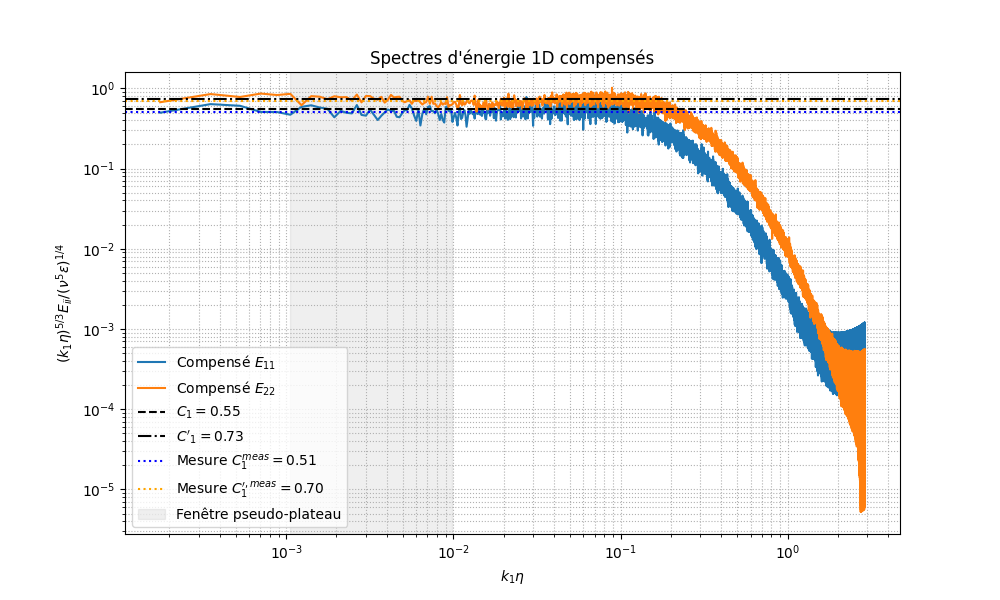
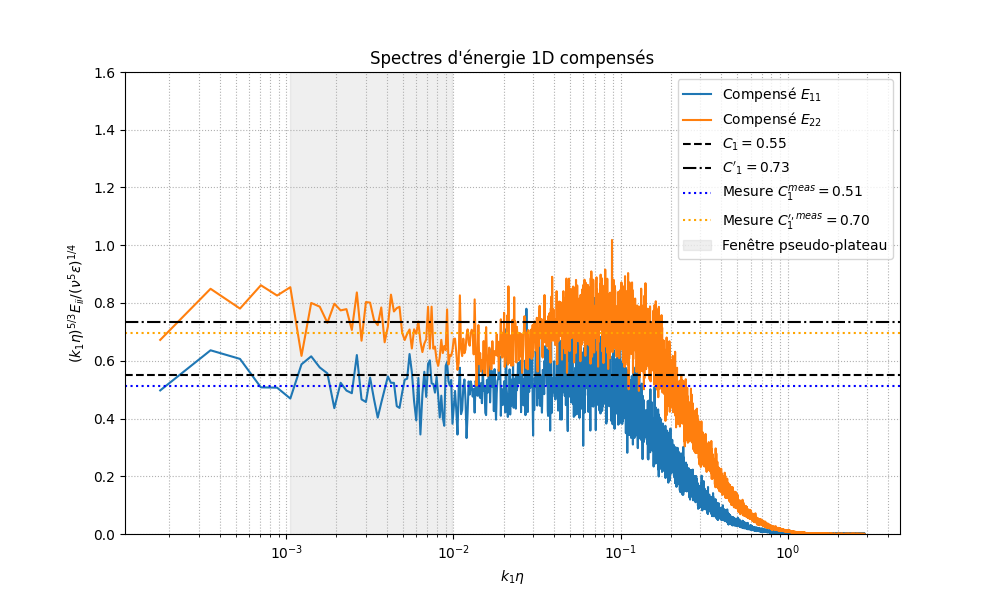
ajust scale loglog & np.save

diff --git a/srcipts/HIT6.0.py b/srcipts/HIT6.0.py
@@ -56,28 +56,15 @@ def calculate_global_quantities(pencils):
     
     # listes pour stocker k et epsilon de chaque pencil
     k_from_each_pencil = []
-    K_bis = []
     epsilon_from_each_pencil = []
 
-    u_from_each_pencil = np.zeros((TOTAL_PENCILS, N_POINTS))  
-    v_from_each_pencil = np.zeros((TOTAL_PENCILS, N_POINTS))
-    w_from_each_pencil = np.zeros((TOTAL_PENCILS, N_POINTS))
-    dudx_from_each_pencil = np.zeros((TOTAL_PENCILS, N_POINTS))
-
-
-    for j, direction in enumerate(DIRECTIONS):
+    for direction in DIRECTIONS:
         for i in range(N_FILES_PER_DIR):
             u, v, w = pencils[direction][i, :, 0], pencils[direction][i, :, 1], pencils[direction][i, :, 2] # compo de vitesse
             
             # --- Calcul de TKE pour ce pencil ---
             # Les champs fournis sont déjà les fluctuations : pas de soustraction de la moyenne
-            u_from_each_pencil[j * N_FILES_PER_DIR + i, :] = u  
-            v_from_each_pencil[j * N_FILES_PER_DIR + i, :] = v
-            w_from_each_pencil[j * N_FILES_PER_DIR + i, :] = w
-
-
             k_pencil = 0.5 * (np.mean(u**2) + np.mean(v**2) + np.mean(w**2))
-            K_bis.append(3/2 * np.mean(u**2))  # vérification alternative
             k_from_each_pencil.append(k_pencil)
             
             # --- Calcul de la dissipation pour ce pencil ---
@@ -88,26 +75,14 @@ def calculate_global_quantities(pencils):
             
             # Dérivée avec schéma d'ordre 4 
             du_dx = fourth_order_derivative(longitudinal_fluc, dx)
-            dudx_from_each_pencil[j * N_FILES_PER_DIR + i, :] = du_dx
         
             epsilon_pencil = 15 * NU * np.mean(du_dx**2)
             epsilon_from_each_pencil.append(epsilon_pencil)
 
 
     # --- Moyenne sur tous les pencils ---
-    print(u_from_each_pencil.shape)
-    print(u_from_each_pencil)
-
-
-
-    u_squared_mean = (u_from_each_pencil**2).mean()
-    v_squared_mean = (v_from_each_pencil**2).mean()
-    w_squared_mean = (w_from_each_pencil**2).mean()
-
-    du_dx_squared_mean = (dudx_from_each_pencil**2).mean()
-
-    k_mean = 0.5 * (u_squared_mean + v_squared_mean + w_squared_mean)
-    epsilon_mean = 15 * NU * du_dx_squared_mean
+    k_mean = np.mean(k_from_each_pencil)
+    epsilon_mean = np.mean(epsilon_from_each_pencil)
 
 
     # --- Quantités dérivées ---
@@ -204,85 +179,68 @@ def calculate_structure_functions(pencils, globals):
 
 # --- 5. Spectres d'énergie 1D ---
 
-def energy_spectra_one_pencil(k, u):
-    """Retourne E(k) 1D pour un signal fluctuant u(x)."""
-    N = N_POINTS
-    dx = L_DOMAIN / N
-
-    # FFT unilatérale
-    U = np.fft.rfft(u)
-
-    # PSD brute suivant convention numpy/Parseval
-    S = (dx / N) * (np.abs(U)**2)
-
-    # Doublement des bins non-DC/non-Nyquist
-    if len(S) > 2:
-        S[1:-1] *= 2
-
-    # E11 ou E22 (par composante)
-    return 0.5 * S   # 0.5* S <=> integrale ≈ 0.5 <u'^2>
-    
-
 def calculate_energy_spectra(pencils, globals):
-    print("\n--- Tâche 3 : Calcul des spectres d'énergie (corrigé) ---")
+    """Calcule les spectres d'énergie 1D E11 et E22.
+
+    Intuition :
+    ----------------
+    On veut voir comment l'énergie cinétique est distribuée selon les différentes
+    échelles (ou longueurs d'onde) dans la turbulence.
+    - E11(k) : énergie de la composante **longitudinale** à l'échelle associée à k
+    - E22(k) : énergie des composantes **transverses**
+    
+    Pour chaque pencil :
+        1. On prend les fluctuations de vitesse (u', v', w')
+        2. On fait la FFT pour passer du domaine spatial au domaine fréquentiel
+        3. On calcule la densité spectrale de puissance |u_hat|^2 etc.
+    Enfin, on moyenne sur tous les pencils pour obtenir un spectre global.
+    
+    Cela permet de repérer :
+        - à grande échelle (petit k) : où l'énergie est injectée
+        - à petite échelle (grand k) : où l'énergie est dissipée par la viscosité
+    """
+    
+    print("\n--- Tâche 3 : Calcul des spectres d'énergie ---")
     
     dx = L_DOMAIN / N_POINTS
+    
+    # Préparation des nombres d'onde (k)
+    k = fftfreq(N_POINTS, d=dx) * 2 * np.pi     # vecteur des nombres d'onde en [rad/m]
+    k_pos = k[1:N_POINTS // 2]                  # on garde que les k positifs (exclut k=0)
 
-    # BON vecteur d’onde : rfft + rfftfreq
-    k = 2*np.pi * np.fft.rfftfreq(N_POINTS, d=dx)
-    k_pos = k[1:]     # on enlève juste k=0
-    nk = len(k_pos)
-
-    E11_acc = np.zeros(nk)
-    E22_acc = np.zeros(nk)
+    # Accumulateurs pour les spectres
+    E11_accumulator = np.zeros_like(k_pos)
+    E22_accumulator = np.zeros_like(k_pos)
 
     for direction in DIRECTIONS:
-        if direction == 'x': long_idx, t1, t2 = 0, 1, 2
-        if direction == 'y': long_idx, t1, t2 = 1, 0, 2
-        if direction == 'z': long_idx, t1, t2 = 2, 1, 0
+        if direction == 'x': long_idx, trans_idx1, trans_idx2 = 0, 1, 2
+        if direction == 'y': long_idx, trans_idx1, trans_idx2 = 1, 0, 2
+        if direction == 'z': long_idx, trans_idx1, trans_idx2 = 2, 1, 0
 
         for i in range(N_FILES_PER_DIR):
+            # Les champs fournis sont déjà les fluctuations : pas de soustraction de la moyenne
+            u_fluc = pencils[direction][i, :, long_idx]
+            v_fluc = pencils[direction][i, :, trans_idx1]
+            w_fluc = pencils[direction][i, :, trans_idx2]
 
-            u = pencils[direction][i, :, long_idx]
-            v = pencils[direction][i, :, t1]
-            w = pencils[direction][i, :, t2]
+            # Transformée de fourier (FFT) 
+            u_hat = fft(u_fluc)[1:N_POINTS // 2]
+            v_hat = fft(v_fluc)[1:N_POINTS // 2]
+            w_hat = fft(w_fluc)[1:N_POINTS // 2]
+            
+            # Calcul du spectre de puissance (PSD)
+            E11_pencil = (L_DOMAIN / (np.pi * N_POINTS**2)) * np.abs(u_hat)**2
+            E22_pencil = (L_DOMAIN / (np.pi * N_POINTS**2)) * (np.abs(v_hat)**2 + np.abs(w_hat)**2)
+            
+            E11_accumulator += E11_pencil
+            E22_accumulator += E22_pencil
+            
+    # Moyenne finale sur les 48 pencils
+    E11_avg = E11_accumulator / TOTAL_PENCILS
+    E22_avg = E22_accumulator / (TOTAL_PENCILS * 2)
 
-            # Retirer la moyenne spatiale de CHAQUE composante (indispensable !)
-            u = u - np.mean(u)
-            v = v - np.mean(v)
-            w = w - np.mean(w)
-
-            # FFT unilatérale correcte
-            U = np.fft.rfft(u)
-            V = np.fft.rfft(v)
-            W = np.fft.rfft(w)
-
-            # PSD unilatéral correct : Parseval + doublement
-            S_u = (dx / N_POINTS) * np.abs(U)**2
-            S_v = (dx / N_POINTS) * np.abs(V)**2
-            S_w = (dx / N_POINTS) * np.abs(W)**2
-
-            # Correction one-sided (sauf k=0 et k=Nyquist)
-            S_u[1:-1] *= 2
-            S_v[1:-1] *= 2
-            S_w[1:-1] *= 2
-
-            # Énergie longitudinale et transverse
-            E11 = 0.5 * S_u[1:]
-            E22 = 0.5 * (S_v[1:] + S_w[1:]) * 0.5   # moyenne des 2 transverses
-
-            E11_acc += E11
-            E22_acc += E22
-
-    # moyenne sur les 48 pencils
-    E11_avg = E11_acc / TOTAL_PENCILS
-    E22_avg = E22_acc / TOTAL_PENCILS
 
     return k_pos, E11_avg, E22_avg
-
-
-
-
 
 
 # --- 6. Fonctions d'autocorrélation (BONUS) ---
@@ -400,28 +358,47 @@ if __name__ == "__main__":
     pencils['x'] = np.load(DATA_PATH + '/saved_data/pencils_x.npy')
     pencils['y'] = np.load(DATA_PATH + '/saved_data/pencils_y.npy')
     pencils['z'] = np.load(DATA_PATH + '/saved_data/pencils_z.npy')
-    print()
     print("--------------------------------")
     print("Saved pencils data loaded")
     print("--------------------------------")
-    print()
 
     globals_dict = calculate_global_quantities(pencils)
     
     # Tâche 2
+    r_vals, D11, D22 = None, None, None
     r_vals, D11, D22 = calculate_structure_functions(pencils, globals_dict)
+    np.save(DATA_PATH + '/saved_data/r_values_sf.npy', r_vals)
+    np.save(DATA_PATH + '/saved_data/D11_sf.npy', D11)
+    np.save(DATA_PATH + '/saved_data/D22_sf.npy', D22)
+    np.load(DATA_PATH + '/saved_data/r_values_sf.npy')
+    np.load(DATA_PATH + '/saved_data/D11_sf.npy')
+    np.load(DATA_PATH + '/saved_data/D22_sf.npy')
     plot_sf_loglog(r_vals, D11, D22, globals_dict['eta'], RESULTS_PATH)                         # Log-Log
     plot_sf_comp(r_vals, D11, D22, globals_dict['eps'], globals_dict['eta'], RESULTS_PATH)      # Compensé 
     
     #raise SystemExit
 
     # Tâche 3
+    k_vals, E11, E22 = None, None, None
     k_vals, E11, E22 = calculate_energy_spectra(pencils, globals_dict)
+    np.save(DATA_PATH + '/saved_data/k_values_spectra.npy', k_vals)
+    np.save(DATA_PATH + '/saved_data/E11_spectra.npy', E11)
+    np.save(DATA_PATH + '/saved_data/E22_spectra.npy', E22)
+    np.load(DATA_PATH + '/saved_data/k_values_spectra.npy')
+    np.load(DATA_PATH + '/saved_data/E11_spectra.npy')
+    np.load(DATA_PATH + '/saved_data/E22_spectra.npy')
     plot_spectra_loglog(k_vals, E11, E22, globals_dict, RESULTS_PATH)
     plot_spectra_comp(k_vals, E11, E22, globals_dict, RESULTS_PATH)
     
     # Tâche BONUS
+    r_vals_corr, f_r, g_r = None, None, None
     r_vals_corr, f_r, g_r = calculate_autocorrelation_functions(pencils, globals_dict)
+    np.save(DATA_PATH + '/saved_data/r_values_corr.npy', r_vals_corr)
+    np.save(DATA_PATH + '/saved_data/f_r.npy', f_r)
+    np.save(DATA_PATH + '/saved_data/g_r.npy', g_r)
+    np.load(DATA_PATH + '/saved_data/r_values_corr.npy')
+    np.load(DATA_PATH + '/saved_data/f_r.npy')
+    np.load(DATA_PATH + '/saved_data/g_r.npy')
     plot_autocorrelation(r_vals_corr, f_r, g_r, globals_dict['eta'], RESULTS_PATH)
 
     print("\nAnalyse complète terminée")

diff --git a/srcipts/HIT5.0.py b/srcipts/HIT5.0.py
@@ -365,19 +365,40 @@ if __name__ == "__main__":
     globals_dict = calculate_global_quantities(pencils)
     
     # Tâche 2
+    r_vals, D11, D22 = None, None, None
     r_vals, D11, D22 = calculate_structure_functions(pencils, globals_dict)
+    np.save(DATA_PATH + '/saved_data/r_values_sf.npy', r_vals)
+    np.save(DATA_PATH + '/saved_data/D11_sf.npy', D11)
+    np.save(DATA_PATH + '/saved_data/D22_sf.npy', D22)
+    np.load(DATA_PATH + '/saved_data/r_values_sf.npy')
+    np.load(DATA_PATH + '/saved_data/D11_sf.npy')
+    np.load(DATA_PATH + '/saved_data/D22_sf.npy')
     plot_sf_loglog(r_vals, D11, D22, globals_dict['eta'], RESULTS_PATH)                         # Log-Log
     plot_sf_comp(r_vals, D11, D22, globals_dict['eps'], globals_dict['eta'], RESULTS_PATH)      # Compensé 
     
     #raise SystemExit
 
     # Tâche 3
+    k_vals, E11, E22 = None, None, None
     k_vals, E11, E22 = calculate_energy_spectra(pencils, globals_dict)
+    np.save(DATA_PATH + '/saved_data/k_values_spectra.npy', k_vals)
+    np.save(DATA_PATH + '/saved_data/E11_spectra.npy', E11)
+    np.save(DATA_PATH + '/saved_data/E22_spectra.npy', E22)
+    np.load(DATA_PATH + '/saved_data/k_values_spectra.npy')
+    np.load(DATA_PATH + '/saved_data/E11_spectra.npy')
+    np.load(DATA_PATH + '/saved_data/E22_spectra.npy')
     plot_spectra_loglog(k_vals, E11, E22, globals_dict, RESULTS_PATH)
     plot_spectra_comp(k_vals, E11, E22, globals_dict, RESULTS_PATH)
     
     # Tâche BONUS
+    r_vals_corr, f_r, g_r = None, None, None
     r_vals_corr, f_r, g_r = calculate_autocorrelation_functions(pencils, globals_dict)
+    np.save(DATA_PATH + '/saved_data/r_values_corr.npy', r_vals_corr)
+    np.save(DATA_PATH + '/saved_data/f_r.npy', f_r)
+    np.save(DATA_PATH + '/saved_data/g_r.npy', g_r)
+    np.load(DATA_PATH + '/saved_data/r_values_corr.npy')
+    np.load(DATA_PATH + '/saved_data/f_r.npy')
+    np.load(DATA_PATH + '/saved_data/g_r.npy')
     plot_autocorrelation(r_vals_corr, f_r, g_r, globals_dict['eta'], RESULTS_PATH)
 
     print("\nAnalyse complète terminée")

diff --git a/srcipts/additionnaly.py b/srcipts/additionnaly.py
@@ -108,8 +108,8 @@ def plot_sf_comp(r_values, D11_avg, D22_avg, eps, eta, results_path):
     measured_C2p = np.median(compensated_D22[plateau_mask]) if np.any(plateau_mask) else np.nan
 
     plt.figure(figsize=(10, 6))
-    plt.semilogx(r_plot, compensated_D11, label='Comp $D_{11}$')
-    plt.semilogx(r_plot, compensated_D22, label='Comp $D_{22}$')
+    plt.loglog(r_plot, compensated_D11, label='Comp $D_{11}$')
+    plt.loglog(r_plot, compensated_D22, label='Comp $D_{22}$')
 
     # theoretical lines
     plt.axhline(C2, color='blue', linestyle='--', label=f'$C_2 = {C2:.2f}$')
